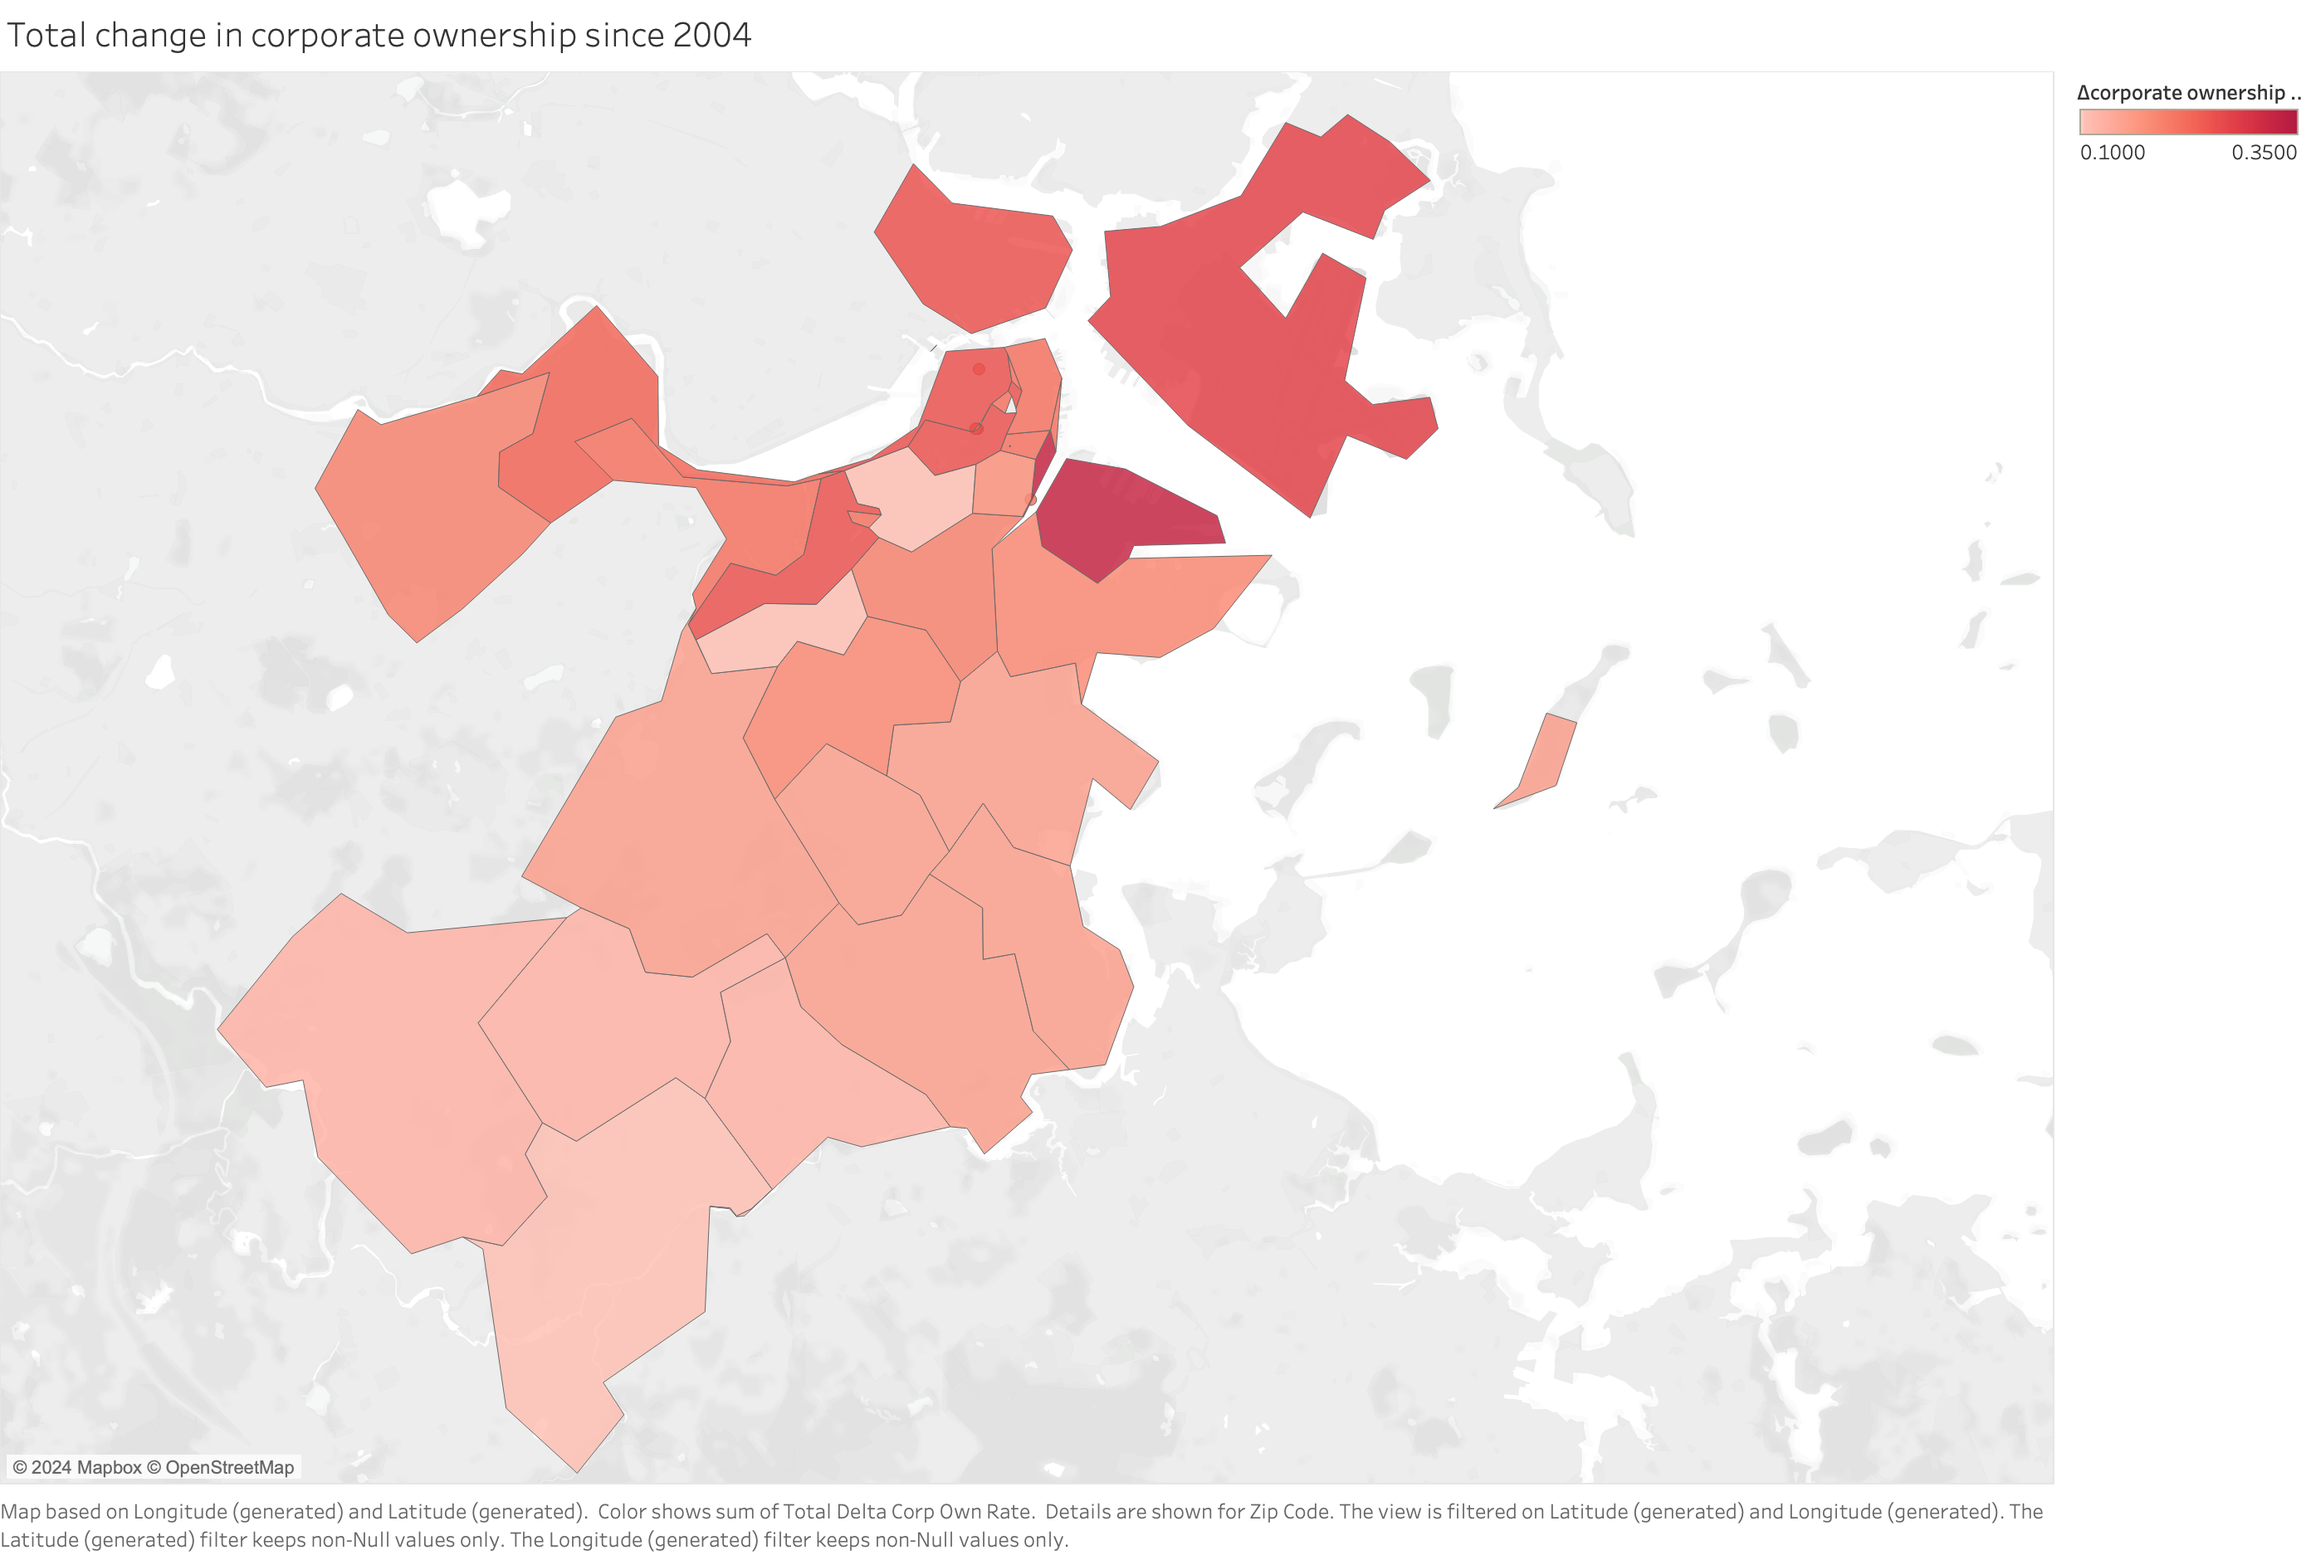
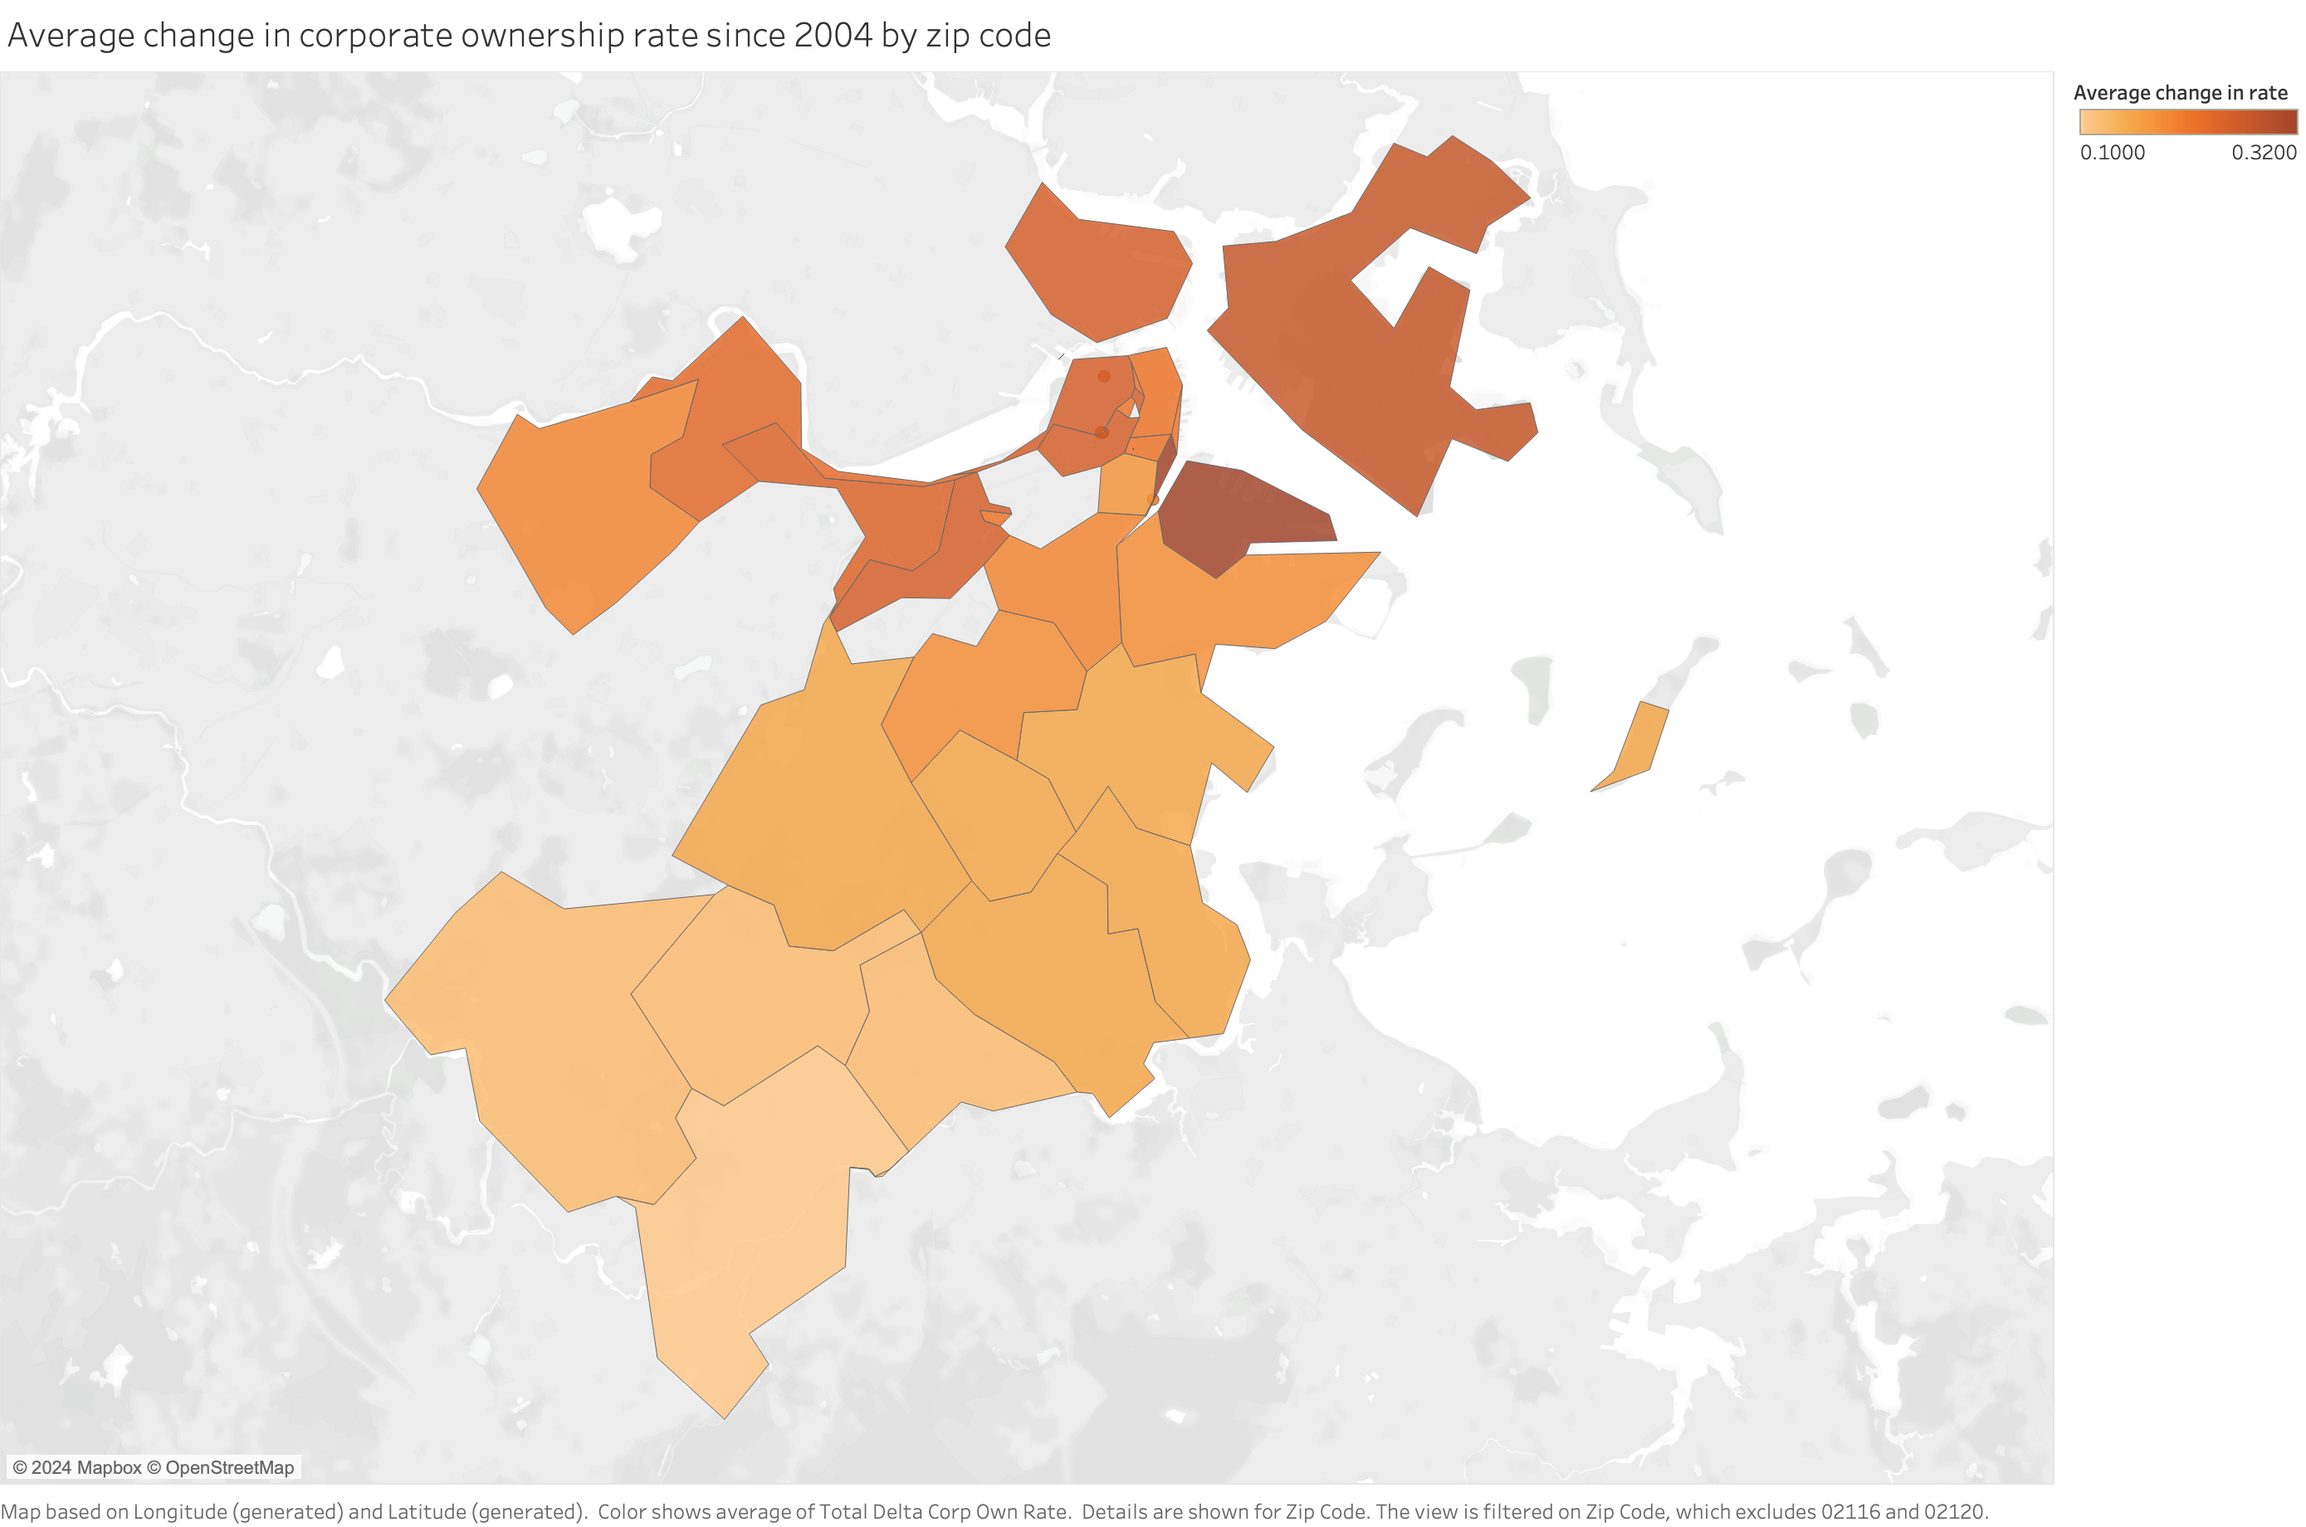
new maps

diff --git a/projects/A2/report.html b/projects/A2/report.html
@@ -161,14 +161,17 @@
 			<figure>
 				<img src="images/total_delta_corp_time.pnh" alt="" />
 				<figcaption>
-				ENTER IMAGE CAPTION HERE.
+				In this figure, we can study the total change in corporate ownership rates by zip code through a geographic lens. For each zip code, 
+				we compute the average change across neighborhoods in the zip code. The map is colored by this change in corporate ownership rate, 
+				using a gradient from light orange to dark red. The increase in saturation implies greater density/concentration, and the red color 
+				highlights increasing rates. The figure nicely illustrates how zip codes along 
 				</figcaption>
 			</figure>
 
 			<figure>
-				<img src="IMAGE_FILENAME" alt="" />
+				<img src="images/med_owner_vacancy_zip.png" alt="" />
 				<figcaption>
-				ENTER IMAGE CAPTION HERE.
+				
 				</figcaption>
 			</figure>
 
